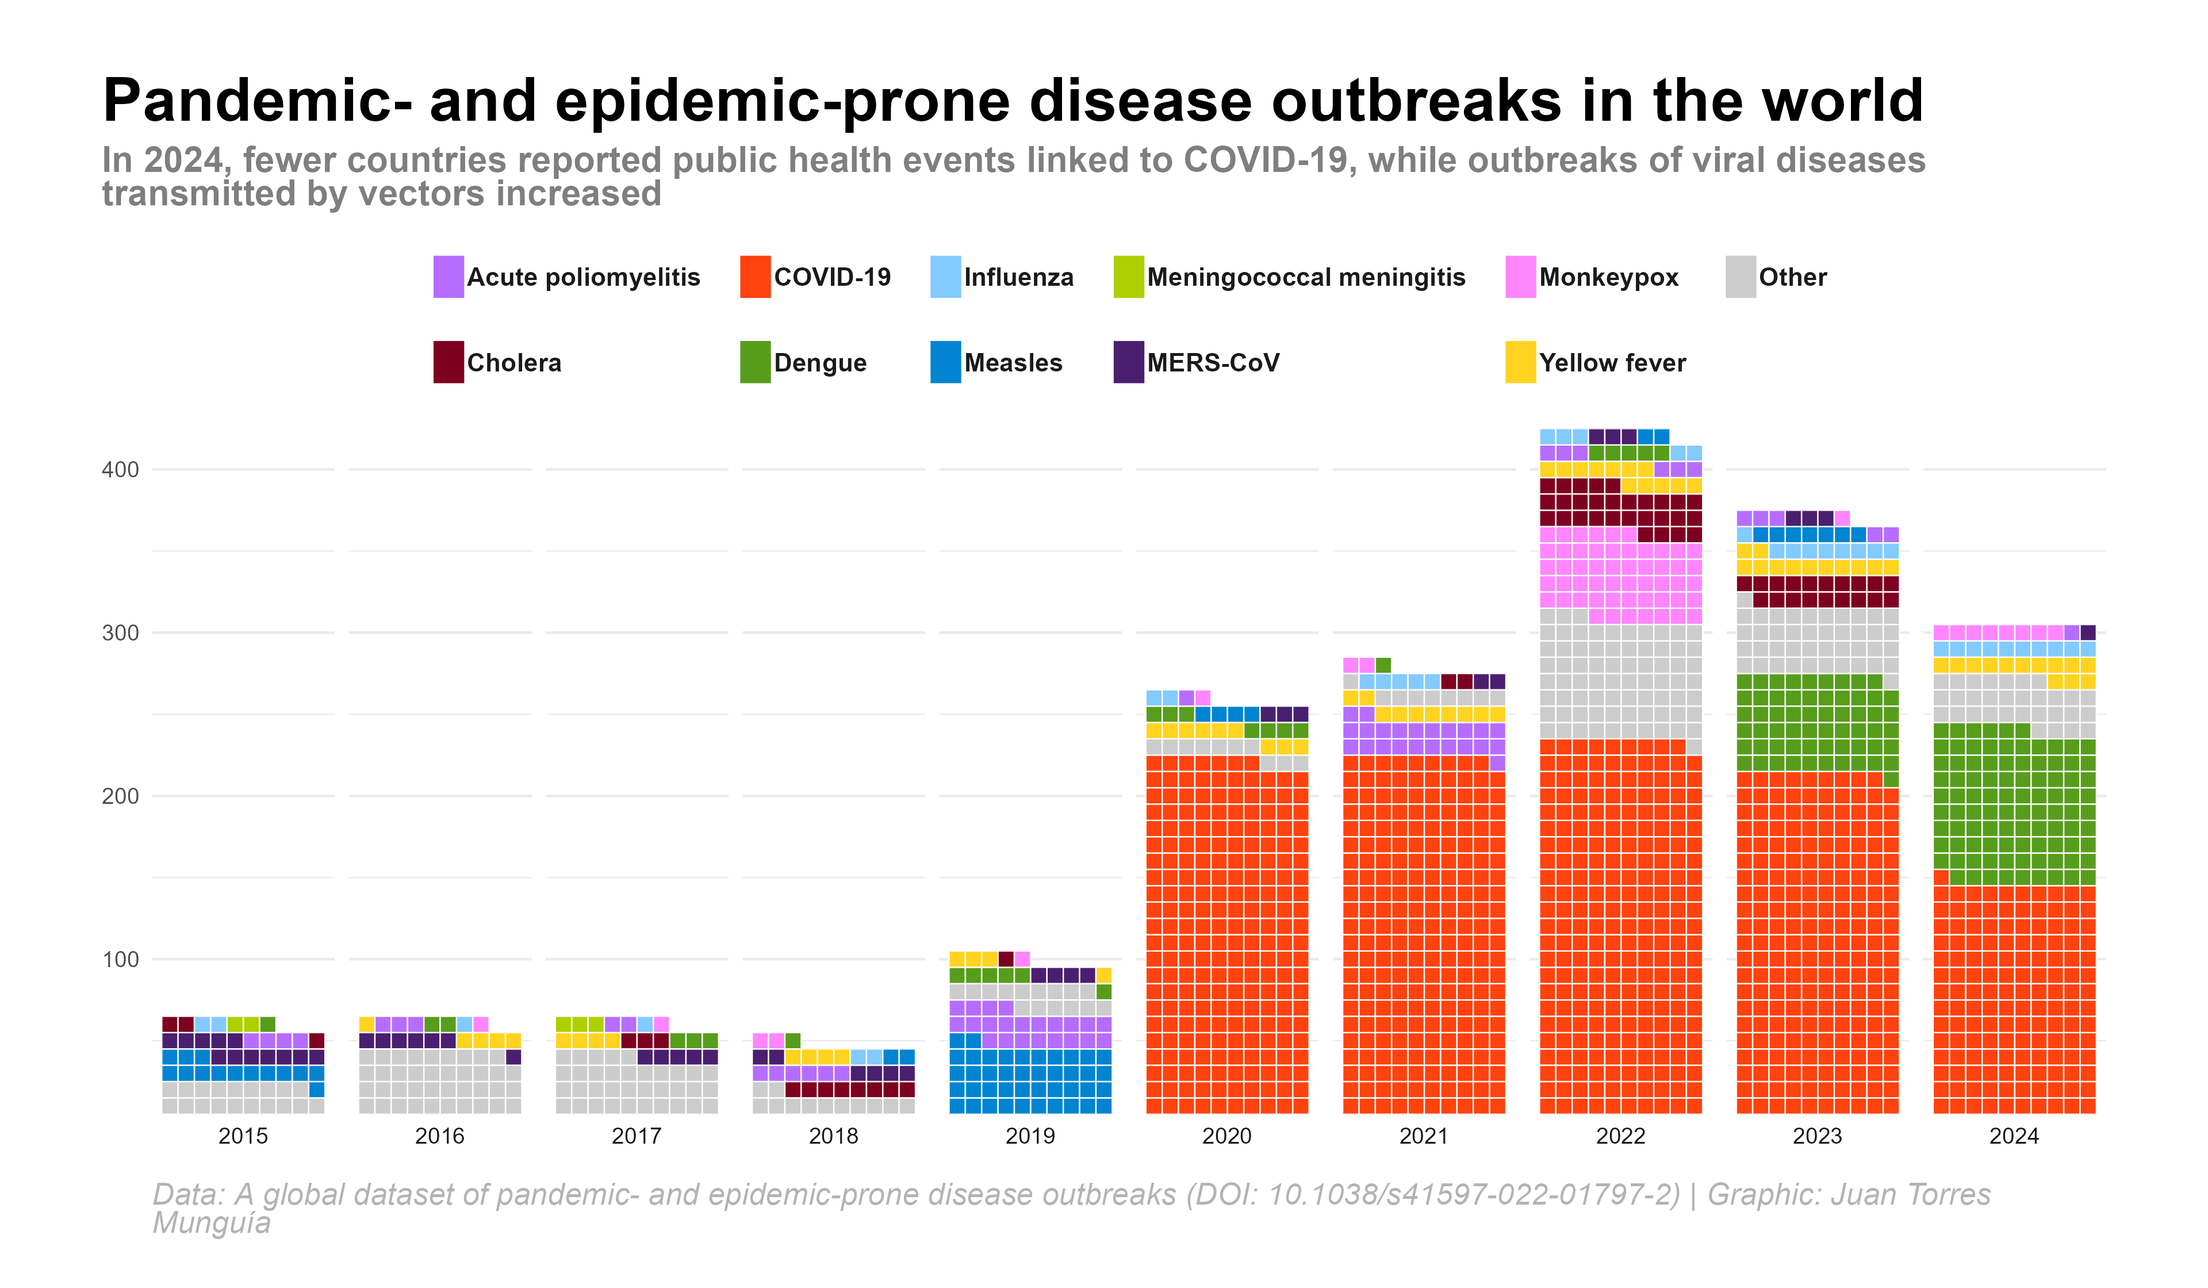
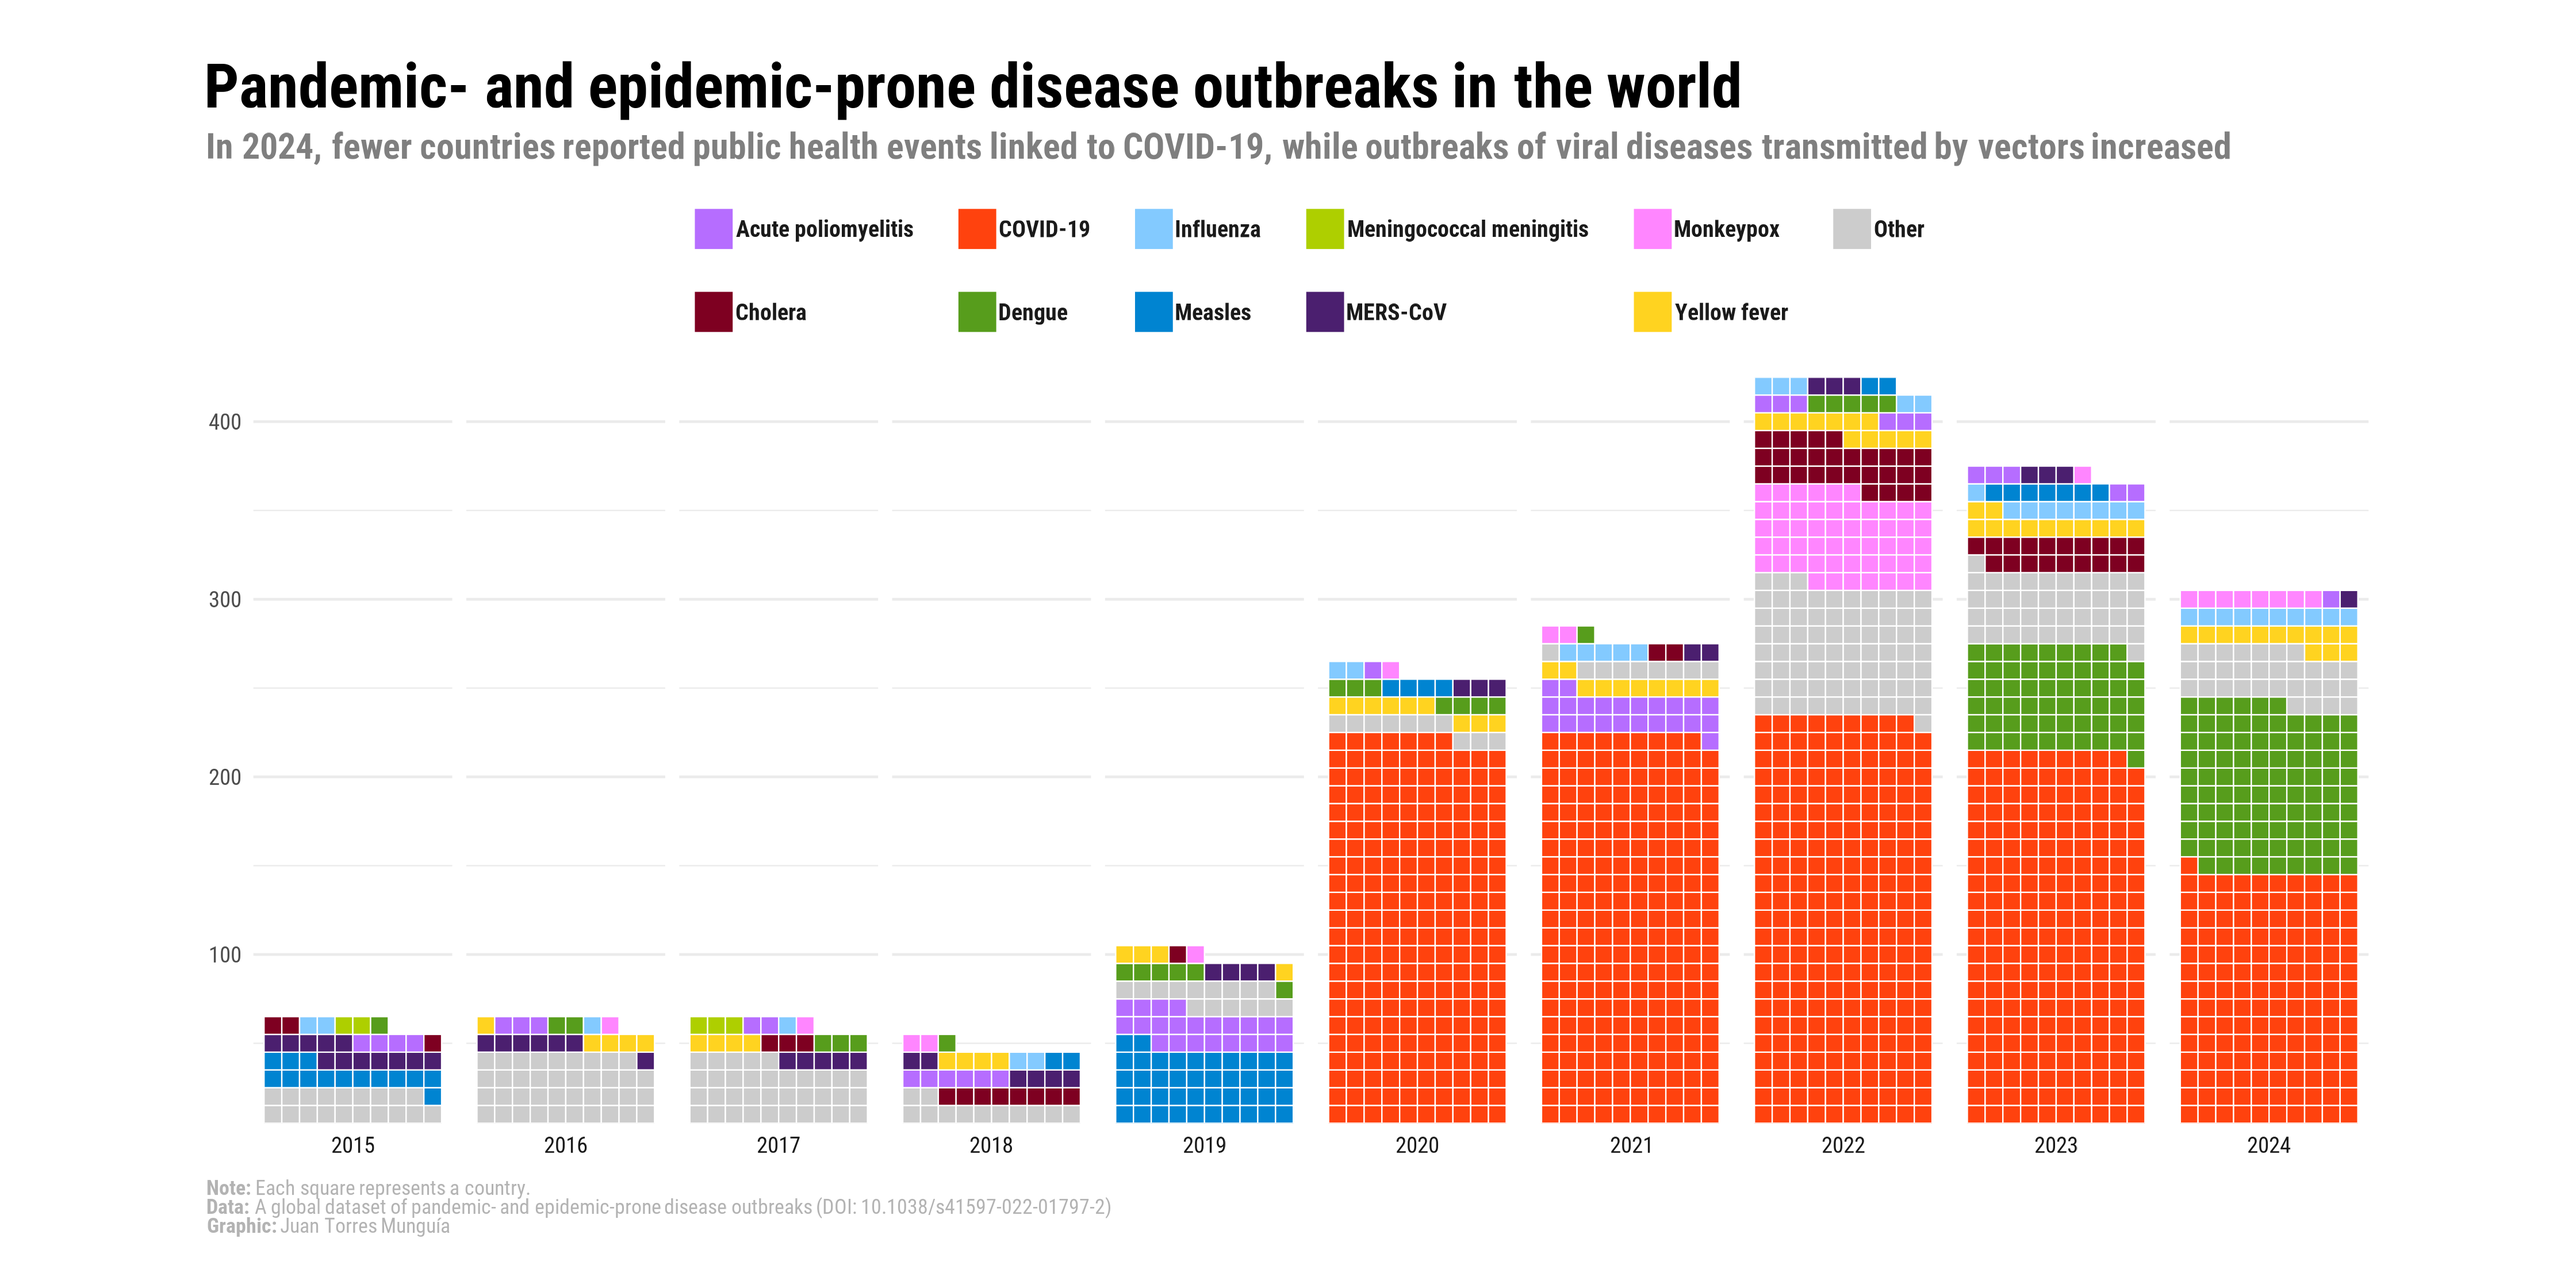
update plots

Changed region(s): [[0.0312, 0.0312, 0.9688, 0.9688], [0.7812, 0.1875, 0.8125, 0.25]]

diff --git a/docs/portfolio/index.html b/docs/portfolio/index.html
@@ -224,16 +224,13 @@ window.Quarto = {
 </header>
 
 
-<section id="welcome-to-my-data-visualizations-gallery" class="level2">
-<h2 class="anchored" data-anchor-id="welcome-to-my-data-visualizations-gallery">Welcome to my data visualizations gallery</h2>
 
 
 
-</section>
 
 <div class="quarto-listing quarto-listing-container-grid" id="listing-listing">
 <div class="list grid quarto-listing-cols-3">
-<div class="g-col-1" data-index="0" data-categories="data visualization,research paper" data-listing-date-sort="1736661600000" data-listing-file-modified-sort="1744699148890" data-listing-date-modified-sort="NaN" data-listing-reading-time-sort="1" data-listing-word-count-sort="51">
+<div class="g-col-1" data-index="0" data-categories="data visualization,research paper" data-listing-date-sort="1736661600000" data-listing-file-modified-sort="1744738971835" data-listing-date-modified-sort="NaN" data-listing-reading-time-sort="1" data-listing-word-count-sort="44">
 <a href="../portfolio/projects/waffle_chart_disease_outbreaks/index.html" class="quarto-grid-link">
 <div class="quarto-grid-item card h-100 card-left">
 <p class="card-img-top">
@@ -247,7 +244,7 @@ A waffle chart of disease outbreaks in the world
 </div>
 </a>
 </div>
-<div class="g-col-1" data-index="1" data-categories="data visualization,research paper" data-listing-date-sort="1728712800000" data-listing-file-modified-sort="1743462163414" data-listing-date-modified-sort="NaN" data-listing-reading-time-sort="1" data-listing-word-count-sort="82">
+<div class="g-col-1" data-index="1" data-categories="data visualization,research paper" data-listing-date-sort="1728712800000" data-listing-file-modified-sort="1744738701513" data-listing-date-modified-sort="NaN" data-listing-reading-time-sort="1" data-listing-word-count-sort="81">
 <a href="../portfolio/projects/shiny_disease_outbreaks/index.html" class="quarto-grid-link">
 <div class="quarto-grid-item card h-100 card-left">
 <p class="card-img-top">

diff --git a/docs/portfolio/projects/waffle_chart_disease_outbreaks/index.html b/docs/portfolio/projects/waffle_chart_disease_outbreaks/index.html
@@ -184,12 +184,11 @@ ul.task-list li input[type="checkbox"] {
 </header>
 
 
-<p>This waffle chart was developed in support of the research paper <em>Global Trends of Pandemic- and Epidemic-Prone Disease Outbreaks in 2024</em>, aiming to visualize the distribution of disease outbreaks across the globe.</p>
+<p>This waffle chart was developed in support of the research paper <a href="https://www.nature.com/articles/s41597-022-01797-2"><em>A global dataset of pandemic- and epidemic-prone disease outbreaks</em></a>, aiming to visualize the distribution of disease outbreaks across the globe.</p>
 <div class="card">
 <p><a href="waffle-pandemics.png" class="lightbox" data-gallery="quarto-lightbox-gallery-1"><img src="waffle-pandemics.png" class="img-fluid" style="width:100.0%"></a></p>
 </div>
-<p>You can read the full paper <a href="">here</a>.</p>
-<p>To access the source code and replicate this chart, visit my <a href="../blog/posts/waffle_chart_disease_outbreaks/index.qmd">Blog</a>.</p>
+<p>To access the source code and replicate this chart, visit my <a href="../../../blog/posts/waffle_chart_disease_outbreaks/index.html">Blog</a>.</p>
 
 
 
@@ -624,7 +623,7 @@ window.document.addEventListener("DOMContentLoaded", function (event) {
 </div>
   </div>
 </footer>
-<script>var lightboxQuarto = GLightbox({"descPosition":"bottom","closeEffect":"zoom","loop":false,"selector":".lightbox","openEffect":"zoom"});
+<script>var lightboxQuarto = GLightbox({"selector":".lightbox","openEffect":"zoom","closeEffect":"zoom","loop":false,"descPosition":"bottom"});
 window.onload = () => {
   lightboxQuarto.on('slide_before_load', (data) => {
     const { slideIndex, slideNode, slideConfig, player, trigger } = data;

diff --git a/docs/portfolio/projects/shiny_disease_outbreaks/index.html b/docs/portfolio/projects/shiny_disease_outbreaks/index.html
@@ -103,7 +103,7 @@ ul.task-list li input[type="checkbox"] {
   </li>  
   <li class="nav-item">
     <a class="nav-link" href="../../../portfolio/index.html"> 
-<span class="menu-text">DataViz gallery</span></a>
+<span class="menu-text">DataViz</span></a>
   </li>  
   <li class="nav-item">
     <a class="nav-link" href="../../../contact/index.html"> 
@@ -181,7 +181,7 @@ ul.task-list li input[type="checkbox"] {
 </header>
 
 
-<p>This Shiny app was developed in support of the research paper <em>Global Trends of Pandemic- and Epidemic-Prone Disease Outbreaks in 2024</em>, aiming to visualize the distribution of disease outbreaks across the globe from 1996 to 2024.</p>
+<p>This Shiny app was developed in support of the research paper <a href="https://www.nature.com/articles/s41597-022-01797-2"><em>A global dataset of pandemic- and epidemic-prone disease outbreaks</em></a>, aiming to visualize the distribution of disease outbreaks across the globe from 1996 to 2024.</p>
 <div class="{=html}">
 <iframe src="https://jatorresmunguia.shinyapps.io/A_global_dataset_of_disease_outbreaks/" width="100%" height="600px" style="border: none;" title="Shiny dashboard on disease outbreaks 1996-2024">
 </iframe>
